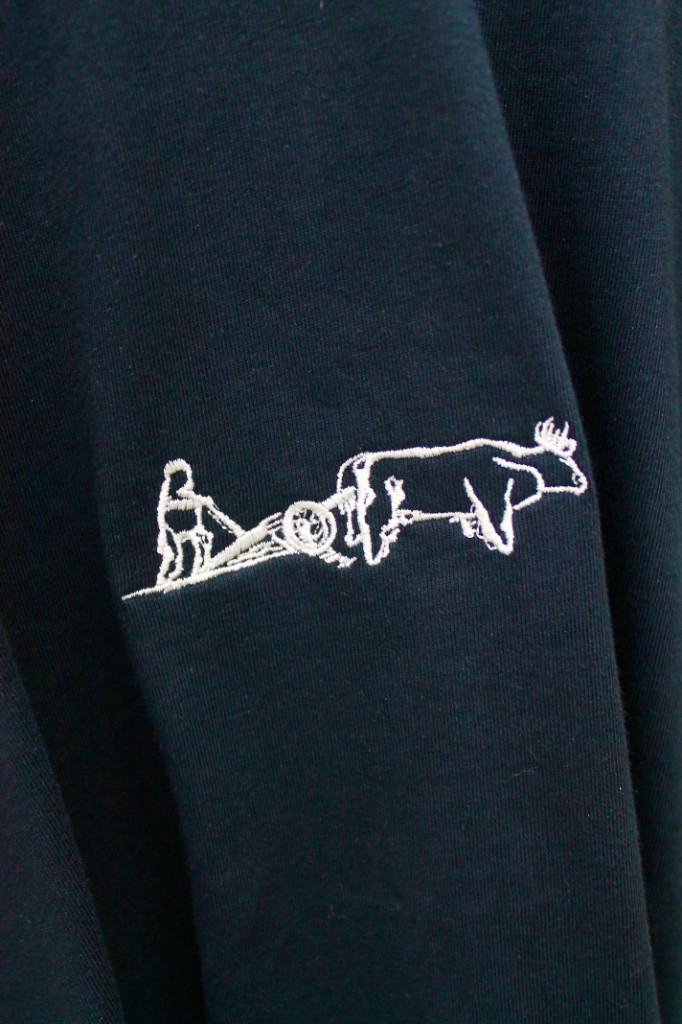
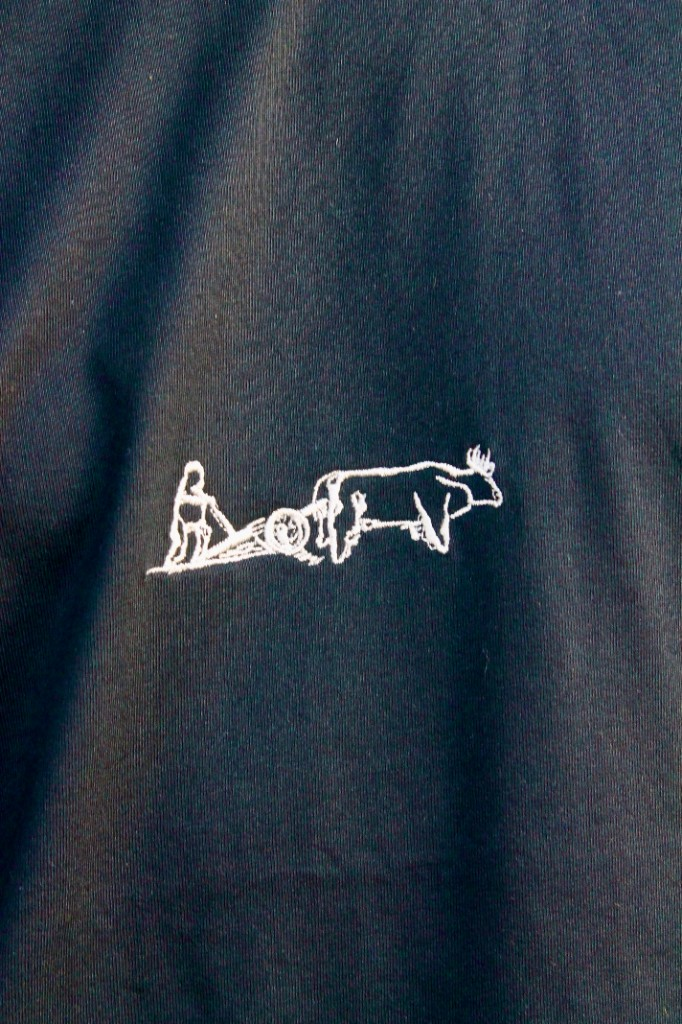
Use the new lifestyle shots as the lead photo on each t-shirt and replace the navy ox close-up.

diff --git a/src/lib/products.ts b/src/lib/products.ts
@@ -20,7 +20,8 @@ export const products: Product[] = [
     color: "White",
     sizes: ["L", "XL", "XXL"],
     soldOutSizes: ["L", "XXL"],
-    image: "/products/tee-white.png",
+    image: "/products/tee-white-full.jpg",
+    images: ["/products/tee-white-full.jpg", "/products/tee-white.png"],
   },
   {
     id: "staunch-tee-black",
@@ -39,7 +40,8 @@ export const products: Product[] = [
     color: "Black",
     sizes: ["L", "XL", "XXL"],
     soldOutSizes: ["L", "XXL"],
-    image: "/products/tee-black.png",
+    image: "/products/tee-black-full.jpg",
+    images: ["/products/tee-black-full.jpg", "/products/tee-black.png"],
   },
   {
     id: "staunch-tee-ox-tallow",

diff --git a/src/components/ProductImage.tsx b/src/components/ProductImage.tsx
@@ -34,6 +34,7 @@ export function ProductImage({
       )}
     >
       <Image
+        key={src}
         src={src}
         alt={alt}
         fill
